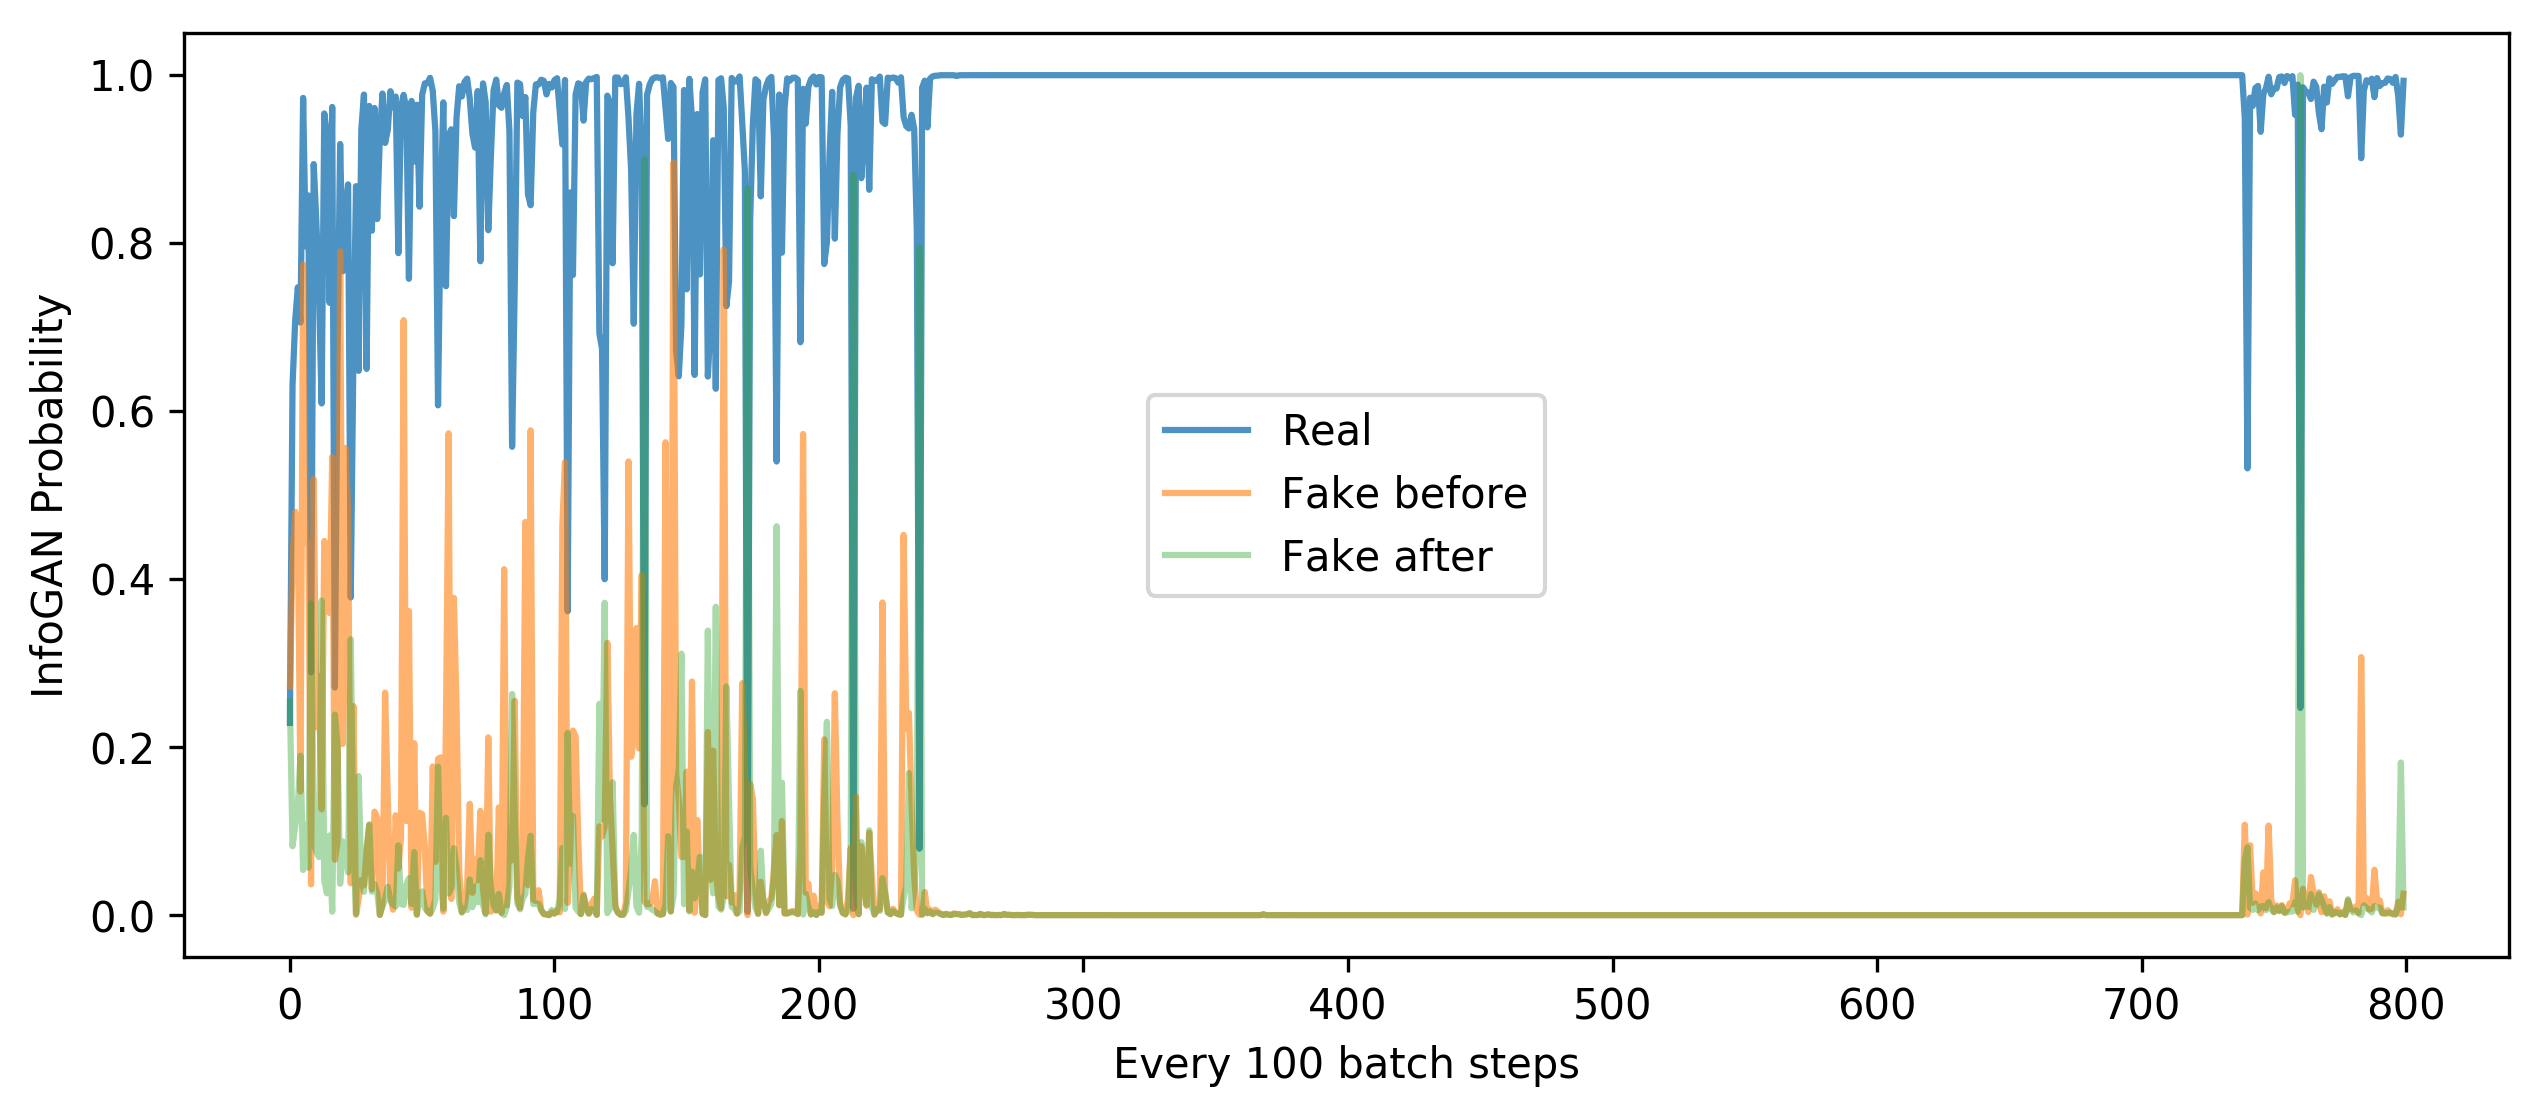
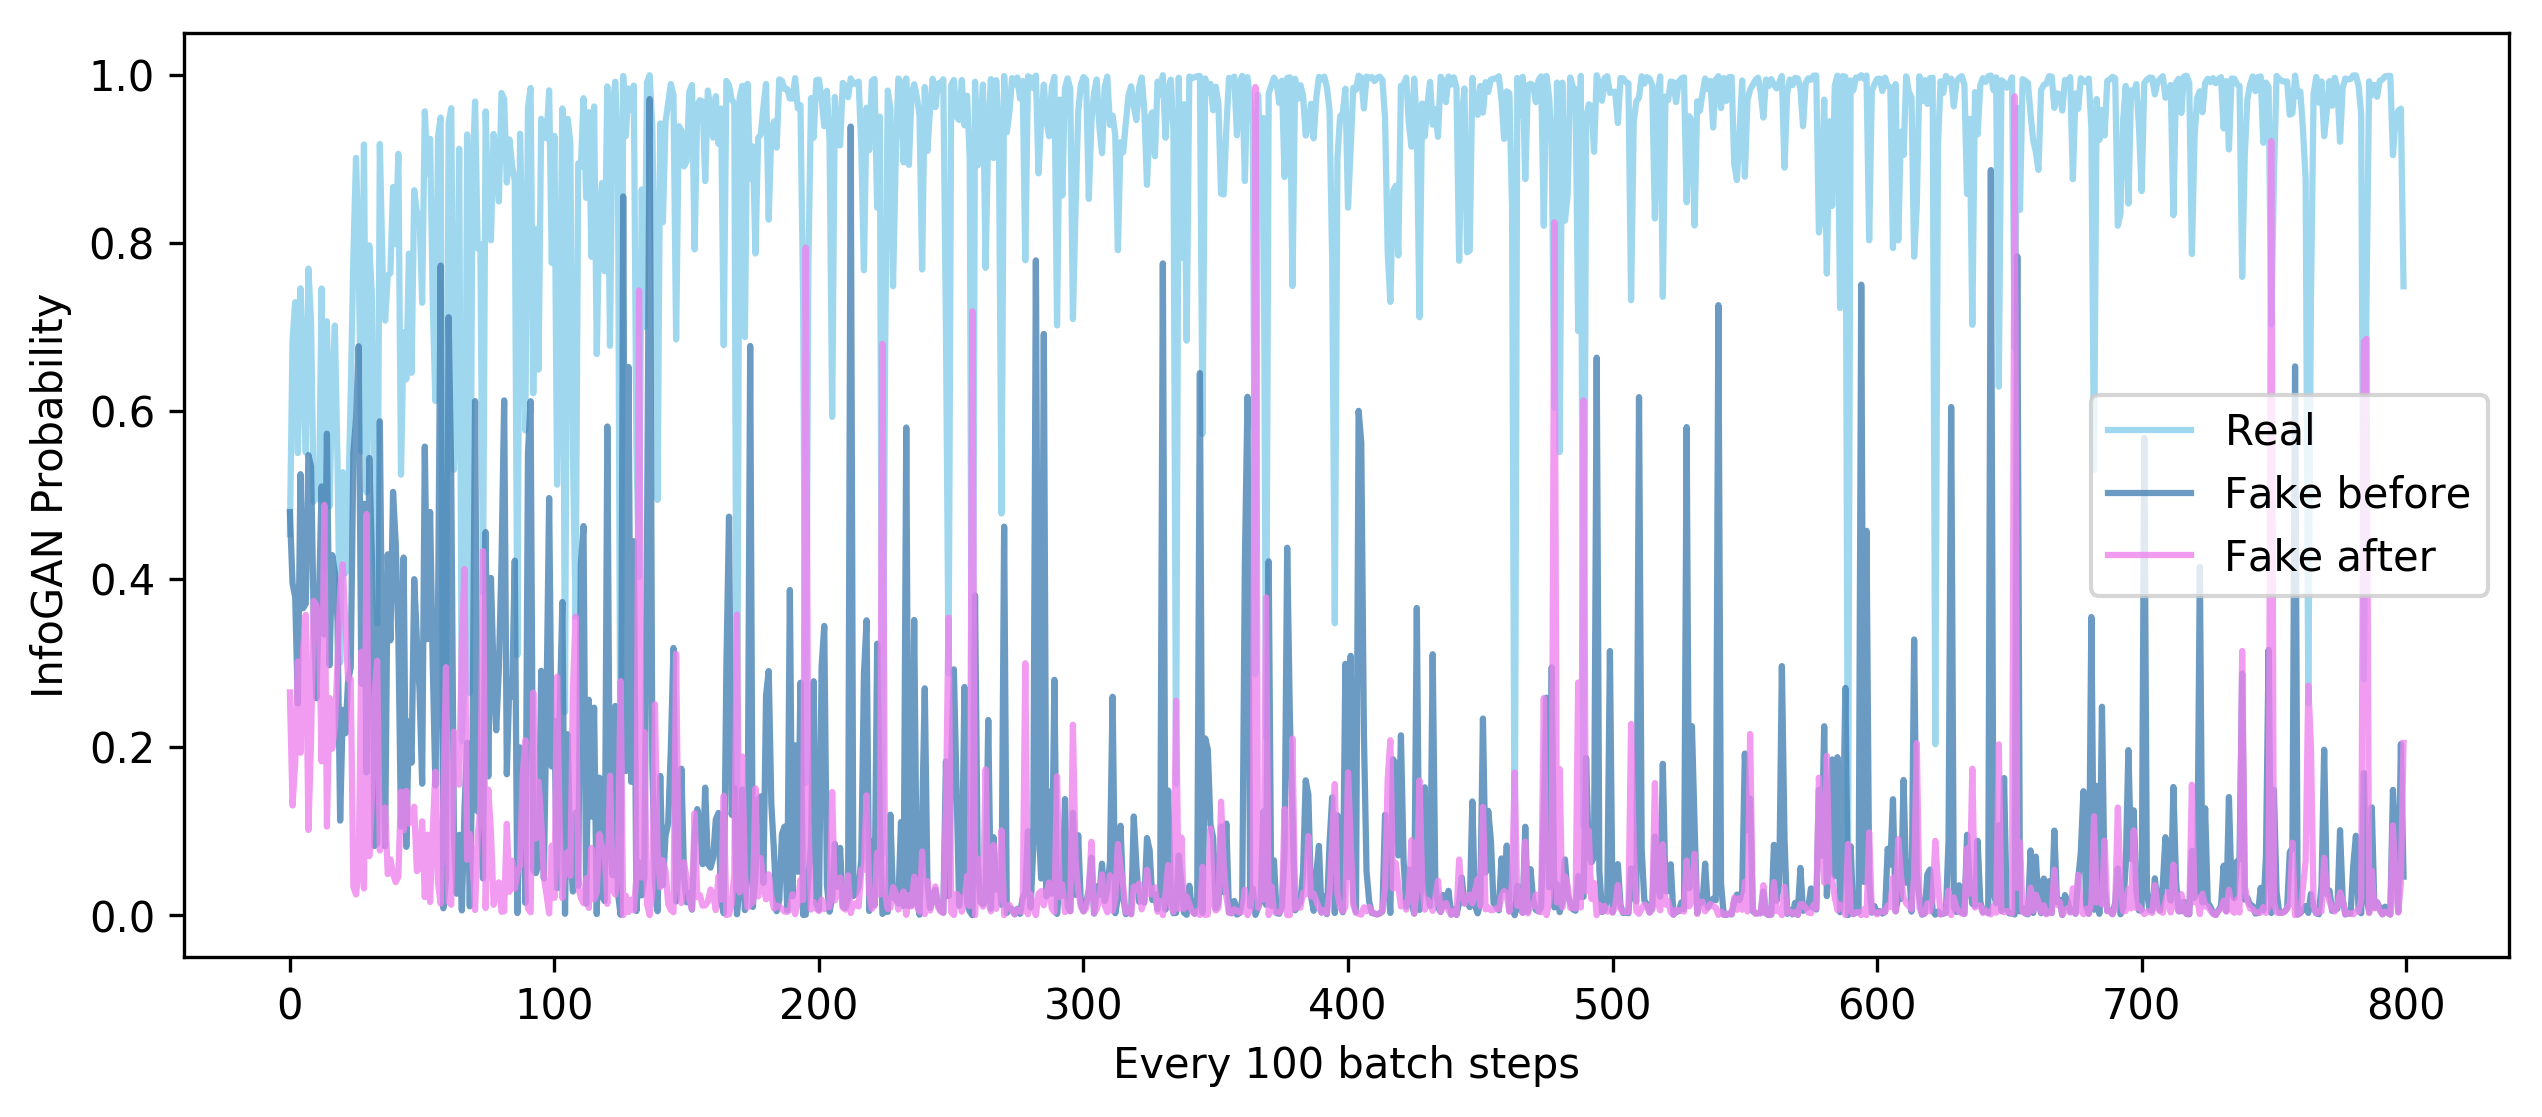
add new output png

diff --git a/Lab4-InfoGAN-CVAE/InfoGAN/plot.py b/Lab4-InfoGAN-CVAE/InfoGAN/plot.py
@@ -13,9 +13,9 @@ dta = read_table(f)
 x = dta.shape[0]
 
 plt.figure(figsize=(3000/300, 1200/300), dpi=300)
-plt.plot(range(x), dta[:,4], label="D_loss", alpha=0.8)
-plt.plot(range(x), dta[:,5], label='G_loss', alpha=0.6)
-plt.plot(range(x), dta[:,6], label='Q_loss', alpha=0.4)
+plt.plot(range(x), dta[:,4], label="D_loss", alpha=0.8, color="firebrick")
+plt.plot(range(x), dta[:,5], label='G_loss', alpha=0.8, color="forestgreen")
+plt.plot(range(x), dta[:,6], label='Q_loss', alpha=0.8, color="gold")
 plt.legend()
 plt.xlabel('Every 100 batch steps')
 plt.ylabel('InfoGAN Loss')
@@ -23,9 +23,9 @@ plt.savefig("InfoGAN-loss.png", dpi=300, bbox_inches='tight')
 plt.close()
 
 plt.figure(figsize=(3000/300, 1200/300), dpi=300)
-plt.plot(range(x), dta[:,7], label="Real", alpha=0.8)
-plt.plot(range(x), dta[:,8], label='Fake before', alpha=0.6)
-plt.plot(range(x), dta[:,9], label='Fake after', alpha=0.4)
+plt.plot(range(x), dta[:,7], label="Real", alpha=0.8, color="skyblue")
+plt.plot(range(x), dta[:,8], label='Fake before', alpha=0.8, color="steelblue")
+plt.plot(range(x), dta[:,9], label='Fake after', alpha=0.8, color="violet")
 plt.legend()
 plt.xlabel('Every 100 batch steps')
 plt.ylabel('InfoGAN Probability')
